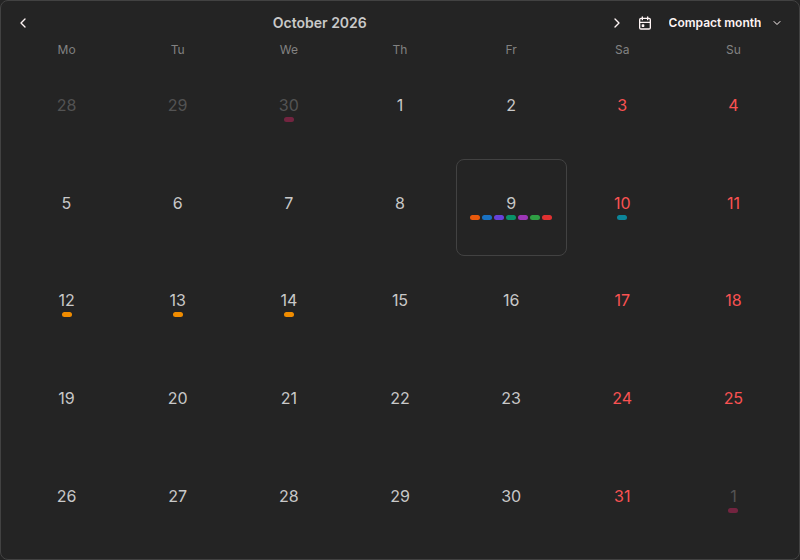
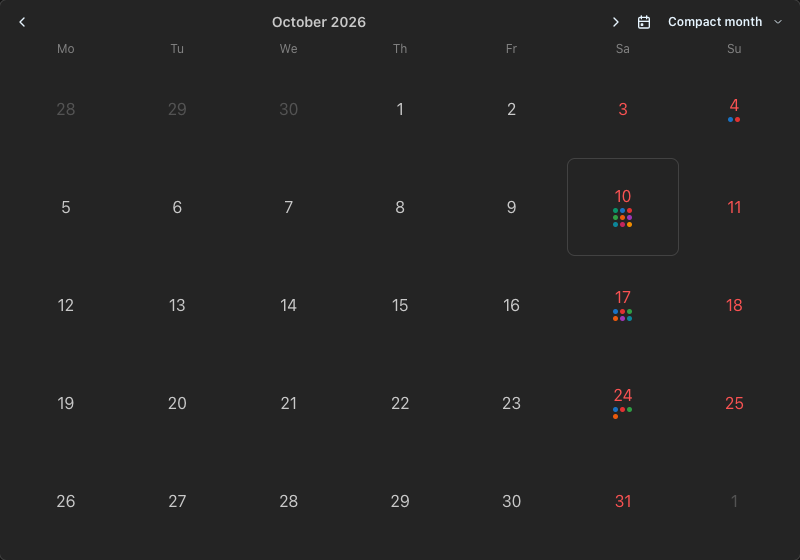
fix(calendar): keep view choices local and arrange event dots

diff --git a/packages/widgets/src/calendar/component.tsx b/packages/widgets/src/calendar/component.tsx
@@ -1,25 +1,24 @@
 "use client";
 
-import { useEffect, useMemo, useRef, useState } from "react";
+import { useEffect, useMemo, useState } from "react";
 import { useMantineTheme } from "@mantine/core";
 import { getQueryKey } from "@trpc/react-query";
 import { skipToken, useQuery, useQueryClient } from "@tanstack/react-query";
 
 import { clientApi } from "@homarr/api/client";
 import { useBoardReplay } from "@homarr/api/board-replay";
-import { useSession } from "@homarr/auth/client";
-import { constructBoardPermissions } from "@homarr/auth/shared";
 import { useRequiredBoard } from "@homarr/boards/context";
-import { showErrorNotification } from "@homarr/notifications";
 import { useSettings } from "@homarr/settings";
-import { useCurrentIntlLocale, useI18n } from "@homarr/translation/client";
+import { useCurrentIntlLocale } from "@homarr/translation/client";
 
 import type { WidgetComponentProps } from "../definition";
 import { getUsableWidgetQueryData } from "../common/query-state";
+import { useLocalWidgetState } from "../common/use-local-widget-state";
 import { useWidgetRuntimeQueries } from "../runtime-hooks";
 import type { CalendarEventWithSource } from "./calendar-event-list";
 import { CalendarDisplay } from "./calendar-display";
 import type { CalendarView } from "./calendar-view";
+import { isCalendarView } from "./calendar-view";
 
 export default function CalendarWidget(props: WidgetComponentProps<"calendar">) {
   const queryClient = useQueryClient();
@@ -150,44 +149,28 @@ interface CalendarBaseProps extends WidgetComponentProps<"calendar"> {
   setMonth: (date: Date) => void;
 }
 
-const CalendarBase = ({ options, setOptions, boardId, itemId, ...props }: CalendarBaseProps) => {
-  const t = useI18n("widget.calendar.controls");
+const CalendarBase = ({ options, boardId, itemId, displayMode, ...props }: CalendarBaseProps) => {
   const locale = useCurrentIntlLocale();
   const { firstDayOfWeek } = useSettings();
   const board = useRequiredBoard();
   const theme = useMantineTheme();
-  const { data: session } = useSession();
-  const { hasChangeAccess } = constructBoardPermissions(board, session);
-  const canChangeView = !boardId || !itemId || hasChangeAccess;
-  const viewSavePending = useRef(false);
-  const { mutate: saveItemOptions, isPending: isSavingView } = clientApi.widget.options.saveItemOptions.useMutation({
-    onError: () => showErrorNotification({ title: t("saveErrorTitle"), message: t("saveErrorMessage") }),
+  const defaultView = displayMode === "advanced" ? "agenda" : options.viewMode;
+  const [selectedView, setSelectedView] = useLocalWidgetState<CalendarView | null>({
+    key: boardId && itemId ? `homarr:calendar:${boardId}:${itemId}:view:${displayMode ?? "compact"}` : undefined,
+    version: 1,
+    defaultValue: null,
+    validate: (value): value is CalendarView | null => value === null || isCalendarView(value),
   });
   const setView = (view: CalendarView) => {
-    if (viewSavePending.current || !canChangeView || props.isEditMode || view === options.viewMode) return;
-    const previousView = options.viewMode;
-    setOptions({ newOptions: { viewMode: view } });
-    if (!boardId || !itemId) return;
-    viewSavePending.current = true;
-    saveItemOptions(
-      { boardId, itemId, newOptions: { viewMode: view } },
-      {
-        onError: () => setOptions({ newOptions: { viewMode: previousView } }),
-        onSettled: () => {
-          viewSavePending.current = false;
-        },
-      },
-    );
+    if (!props.isEditMode) setSelectedView(view);
   };
 
   return (
     <CalendarDisplay
       {...props}
       releaseType={options.releaseType}
-      view={options.viewMode}
+      view={props.isEditMode ? defaultView : (selectedView ?? defaultView)}
       setView={setView}
-      isViewChangeDisabled={!canChangeView || isSavingView}
-      isSavingView={isSavingView}
       locale={locale}
       firstDayOfWeek={firstDayOfWeek}
       radius={theme.radius[board.itemRadius]}

diff --git a/packages/widgets/src/calendar/calender-day.tsx b/packages/widgets/src/calendar/calender-day.tsx
@@ -1,5 +1,5 @@
 import { useMemo } from "react";
-import { Box, Container, Flex, HoverCard, Text, useMantineTheme } from "@mantine/core";
+import { Box, Container, HoverCard, Text, useMantineTheme } from "@mantine/core";
 
 import { useRequiredBoard } from "@homarr/boards/context";
 import type { CalendarEvent } from "@homarr/integrations/types";
@@ -95,33 +95,27 @@ const NotificationIndicator = ({ events, size, marginTop, visible }: Notificatio
     (color): color is string => Boolean(color),
   );
 
-  if (!visible) return null;
+  if (!visible || notificationEvents.length === 0) return null;
 
   return (
-    <Flex
+    <Box
       mt={marginTop}
       w="fit-content"
       maw="75%"
-      h={size}
-      align={"center"}
-      gap={2}
       p={0}
-      direction={"row"}
-      justify={"center"}
+      style={{
+        display: "grid",
+        gridTemplateColumns: `repeat(${Math.min(notificationEvents.length, 3)}, ${size}px)`,
+        gap: 2,
+        justifyContent: "center",
+      }}
       aria-hidden
     >
       {notificationEvents.map((notificationEvent) => {
         return (
-          <Box
-            key={notificationEvent}
-            bg={notificationEvent}
-            h={size}
-            w={size * 2}
-            p={0}
-            style={{ borderRadius: 999 }}
-          />
+          <Box key={notificationEvent} bg={notificationEvent} h={size} w={size} p={0} style={{ borderRadius: 999 }} />
         );
       })}
-    </Flex>
+    </Box>
   );
 };

diff --git a/packages/widgets/src/calendar/calendar-display.tsx b/packages/widgets/src/calendar/calendar-display.tsx
@@ -48,8 +48,6 @@ interface CalendarDisplayProps {
   setMonth: (date: Date) => void;
   view: CalendarView;
   setView: (view: CalendarView) => void;
-  isViewChangeDisabled: boolean;
-  isSavingView: boolean;
   releaseType: readonly string[];
   locale: string;
   firstDayOfWeek: 0 | 1 | 2 | 3 | 4 | 5 | 6;
@@ -65,8 +63,6 @@ export const CalendarDisplay = ({
   setMonth: setDate,
   view,
   setView,
-  isViewChangeDisabled,
-  isSavingView,
   releaseType,
   locale,
   firstDayOfWeek,
@@ -193,8 +189,7 @@ export const CalendarDisplay = ({
                 className={actionTargetClasses.root}
                 variant="subtle"
                 size="compact-xs"
-                disabled={isEditMode || isViewChangeDisabled}
-                loading={isSavingView}
+                disabled={isEditMode}
                 aria-label={`${t("controls.view")}: ${t(`view.${view}`)}`}
                 rightSection={<IconChevronDown size={12} />}
               >
@@ -336,7 +331,7 @@ export const CalendarDisplay = ({
               if (!isEditMode) setDate(dayjs(value).toDate());
             }}
             onViewChange={(value) => {
-              if (!isEditMode && !isViewChangeDisabled && value === "day") setView("day");
+              if (!isEditMode && value === "day") setView("day");
             }}
           />
         )}

diff --git a/packages/widgets/src/calendar/calendar-view.ts b/packages/widgets/src/calendar/calendar-view.ts
@@ -1,2 +1,4 @@
 export const calendarViews = ["compact", "month", "week", "day", "agenda"] as const;
 export type CalendarView = (typeof calendarViews)[number];
+
+export const isCalendarView = (value: unknown): value is CalendarView => calendarViews.some((view) => view === value);
